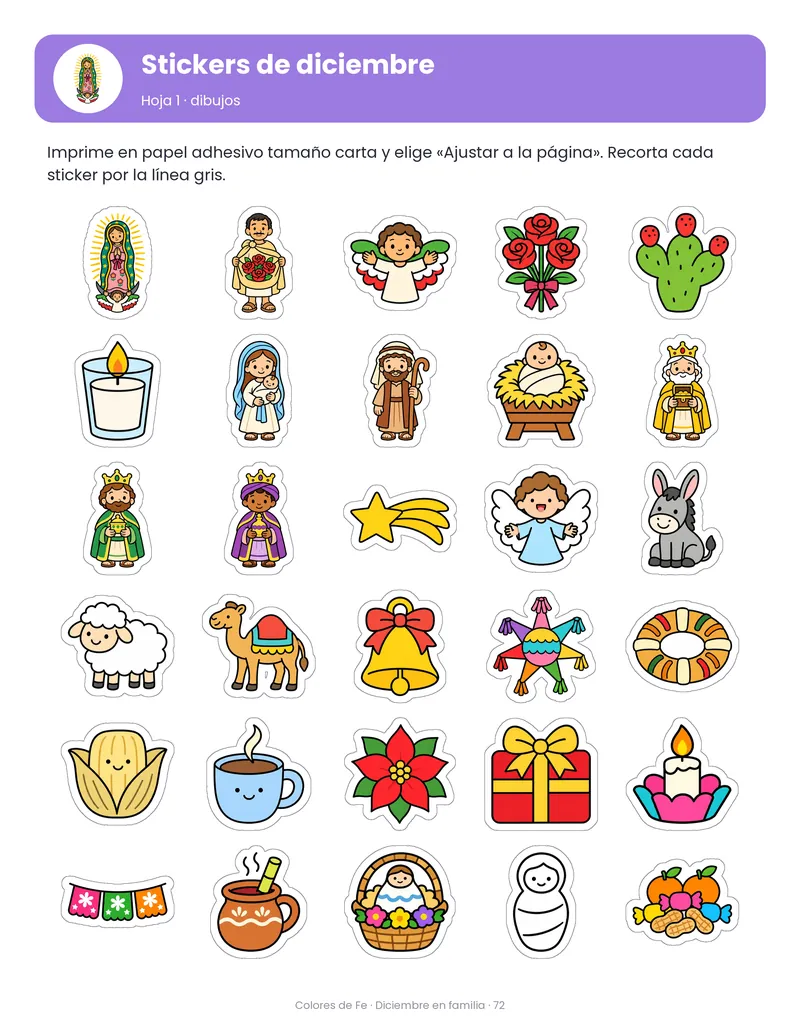
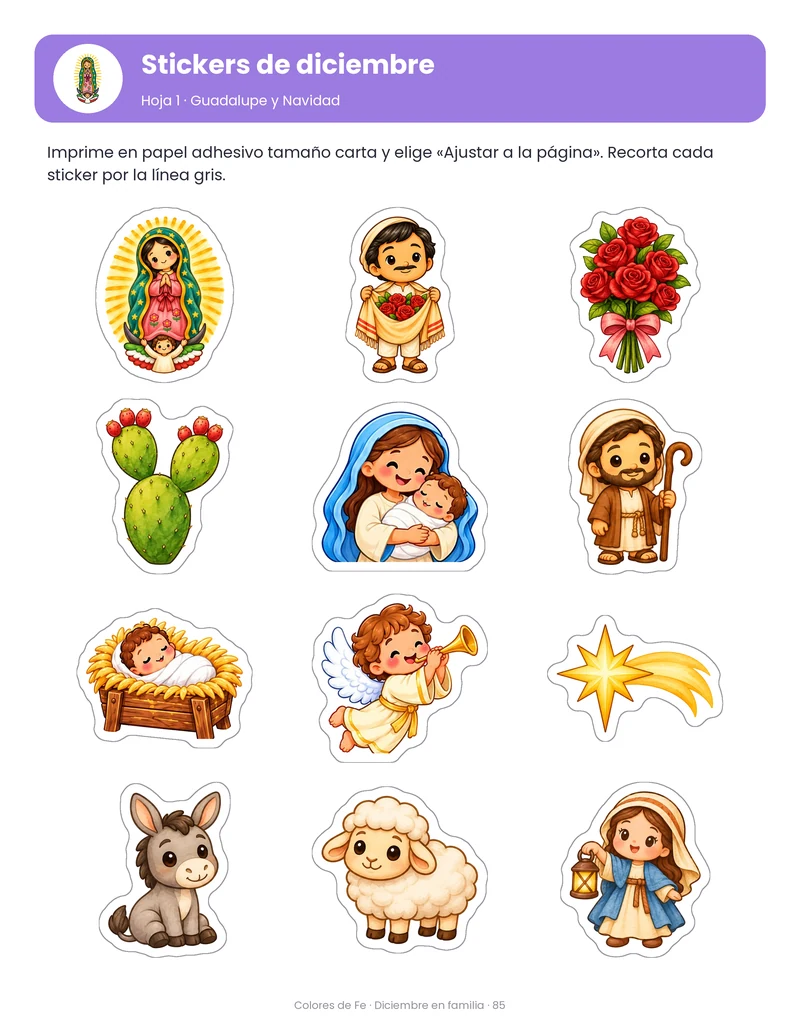
Landings MX: imprimir en cualquier papelería; Diciembre pasa a 89 páginas con 3 hojas de stickers

diff --git a/diciembre/index.html b/diciembre/index.html
@@ -103,6 +103,7 @@ fbq('track','ViewContent',{content_name:'Diciembre en familia',currency:'MXN',va
   .cdf-example-grid figcaption{text-align:center;font-size:13px;color:#6c798c;margin-top:8px;font-weight:700}
   .cdf-hero-cta{max-width:510px;margin:18px auto 0}
   .cdf-hero-cta .cdf-trust{margin-top:10px;font-size:13px}
+  .cdf-print{font-size:15px;font-weight:800;color:var(--navy);text-align:center;background:#fff8e1;border:1px solid var(--yellow);border-radius:12px;padding:8px 12px;margin:12px 0 0}
   #comprar{scroll-margin-top:16px}
   .cdf-real{max-width:520px;margin:30px auto 0;text-align:center}
   .cdf-real-title{margin:0 0 12px;font-weight:900;font-size:19px;color:var(--navy)}
@@ -227,6 +228,7 @@ fbq('track','ViewContent',{content_name:'Diciembre en familia',currency:'MXN',va
           <div class="cdf-hero-cta">
             <p class="cdf-price-hero">Todo el libro: <b>$147 MXN</b> · pago único</p>
             <a class="cdf-btn" href="https://pay.hotmart.com/M108386246R?checkoutMode=10">QUIERO DICIEMBRE EN FAMILIA →</a>
+            <p class="cdf-print">🖨 ¿No tienes impresora? Lo imprimes en cualquier papelería cerca de tu casa.</p>
             <div class="cdf-trust">🔒 Pago seguro con tarjeta u OXXO · 📩 Llega a tu correo · 🛡 Garantía de 7 días</div>
             <a class="cdf-hero-gift" href="#libro">🎁 Ver todo lo que trae el libro</a>
           </div>
@@ -356,7 +358,7 @@ fbq('track','ViewContent',{content_name:'Diciembre en familia',currency:'MXN',va
   <section class="cdf-section" id="libro">
     <div class="cdf-wrap">
       <h2 class="cdf-title">Todo lo que trae el libro 🎁</h2>
-      <p class="cdf-sub">Un solo PDF de 88 páginas, en tamaño carta, con el mismo estilo de dibujo de Colores de Fe.</p>
+      <p class="cdf-sub">Un solo PDF de 89 páginas, en tamaño carta, con el mismo estilo de dibujo de Colores de Fe.</p>
 
       <div class="cdf-bonus cdf-bonus-2">
         <div>
@@ -427,9 +429,10 @@ fbq('track','ViewContent',{content_name:'Diciembre en familia',currency:'MXN',va
         </div>
         <div>
           <div class="cdf-eyebrow">⭐ 5 · STICKERS</div>
-          <h2>2 hojas de stickers de diciembre</h2>
+          <h2>3 hojas de stickers de diciembre</h2>
           <ul class="cdf-list">
-            <li>La Virgen, Juan Diego, el Niño Dios, los Reyes, la piñata, la rosca y más.</li>
+            <li>24 stickers grandes, de unos 5 cm: la Virgen, Juan Diego, el Niño Dios, los Reyes, la piñata, la rosca y más.</li>
+            <li>6 frases para decorar: «¡Feliz Navidad!», «Jesús nació», «¡Gracias, Virgencita!» y más.</li>
             <li>Una velita para pegar en cada noche de posada.</li>
             <li>Se imprimen en papel adhesivo, o en papel común y se pegan con pegamento.</li>
           </ul>
@@ -444,18 +447,18 @@ fbq('track','ViewContent',{content_name:'Diciembre en familia',currency:'MXN',va
       <div class="cdf-offer">
         <div class="cdf-eyebrow">TODO EN UNA SOLA COMPRA</div>
         <h2>Diciembre en familia</h2>
-        <p>Lo recibes por correo apenas se confirma el pago, listo para imprimir.</p>
+        <p>Lo recibes por correo apenas se confirma el pago, listo para imprimir en casa o en cualquier papelería.</p>
         <ul class="cdf-checks" style="max-width:640px;margin:22px auto;text-align:left;">
           <li>El Adviento: corona, calendario, nacimiento y adornos</li>
           <li>20 láminas para pintar</li>
           <li>20 historias para leer en voz alta</li>
           <li>Las 9 posadas, una página por noche</li>
           <li>Lotería, memorama y más juegos</li>
-          <li>2 hojas de stickers de diciembre</li>
+          <li>3 hojas de stickers de diciembre</li>
           <li>Imprimes las veces que quieras</li>
         </ul>
         <div class="cdf-price">$147 MXN</div>
-        <div class="cdf-note">Pago único · 88 páginas en tamaño carta</div>
+        <div class="cdf-note">Pago único · 89 páginas en tamaño carta</div>
         <a class="cdf-btn" href="https://pay.hotmart.com/M108386246R?checkoutMode=10">QUIERO DICIEMBRE EN FAMILIA →</a>
         <div class="cdf-trust">🔒 Pago seguro · 📩 Descarga inmediata · PDF digital, no se envía producto físico.</div>
         <div class="cdf-trust" style="margin-top:6px">💳 Pagas con tarjeta de crédito o débito, o en efectivo en OXXO.</div>
@@ -503,12 +506,13 @@ fbq('track','ViewContent',{content_name:'Diciembre en familia',currency:'MXN',va
     <div class="cdf-wrap">
       <h2 class="cdf-title">Preguntas frecuentes</h2>
       <div class="cdf-faq">
-        <details><summary>¿Qué incluye el libro?</summary><p>Un PDF de 88 páginas: el Adviento (la corona, los 4 domingos, un calendario del 1 al 24, un nacimiento para armar y adornos para el árbol); 20 láminas para pintar, cada una con su historia para leer; una página para cada una de las 9 posadas; juegos (lotería navideña, memorama, cuenta y escribe, sopas de letras, laberintos, una cadena para esperar la Navidad y una piñata para decorar) y 3 hojas de stickers.</p></details>
+        <details><summary>¿Qué incluye el libro?</summary><p>Un PDF de 89 páginas: el Adviento (la corona, los 4 domingos, un calendario del 1 al 24, un nacimiento para armar y adornos para el árbol); 20 láminas para pintar, cada una con su historia para leer; una página para cada una de las 9 posadas; juegos (lotería navideña, memorama, cuenta y escribe, sopas de letras, laberintos, una cadena para esperar la Navidad y una piñata para decorar) y 3 hojas de stickers.</p></details>
         <details><summary>¿Es católico?</summary><p>Sí. Está hecho para familias católicas de México: la Virgen de Guadalupe y san Juan Diego, las posadas, el nacimiento, el arrullo del Niño Dios, la rosca de Reyes y la Candelaria. Los versículos están tomados del Leccionario de la Conferencia del Episcopado Mexicano, y las historias de la Virgen de Guadalupe son adaptaciones para niños del <em>Nican Mopohua</em>.</p></details>
-        <details><summary>¿Es un libro físico?</summary><p>No. Es un PDF digital: lo descargas y lo imprimes en casa o en la papelería, en hojas tamaño carta. No se envía ningún producto físico.</p></details>
+        <details><summary>¿Es un libro físico?</summary><p>No. Es un PDF digital: lo descargas y lo imprimes en casa o en cualquier papelería, en hojas tamaño carta. No se envía ningún producto físico.</p></details>
+        <details><summary>¿Y si no tengo impresora?</summary><p>No hace falta tener una. Le mandas el PDF por WhatsApp o por correo a cualquier papelería o centro de copiado cerca de tu casa y te lo imprimen en hojas tamaño carta, a color o en blanco y negro. Puedes imprimir solo las páginas que vayas a usar y volver por más cuando quieras.</p></details>
         <details><summary>¿Para qué edades está pensado?</summary><p>Para niños de kínder y de los primeros años de primaria (más o menos de 3 a 8 años). Los más chiquitos pintan y escuchan la historia; los más grandes la leen y resuelven los juegos.</p></details>
         <details><summary>¿Lo puedo usar en la catequesis?</summary><p>Sí. Puedes imprimir las páginas las veces que quieras para tu familia o para el grupo de niños que acompañes. Lo que no se permite es compartir el archivo ni revenderlo.</p></details>
-        <details><summary>¿Cómo son los stickers?</summary><p>Son 2 hojas para imprimir, con dibujos de diciembre y una velita para cada noche de posada. No vienen adhesivos: los imprimes en papel adhesivo, o en papel común y los pegas con pegamento.</p></details>
+        <details><summary>¿Cómo son los stickers?</summary><p>Son 3 hojas para imprimir: 24 dibujos de diciembre grandes, 6 frases y una velita para cada noche de posada. No vienen adhesivos: los imprimes en papel adhesivo, o en papel común y los pegas con pegamento.</p></details>
         <details><summary>¿Cómo puedo pagar?</summary><p>Con tarjeta de crédito o débito, o en efectivo en OXXO. Si pagas en OXXO, recibes una ficha de pago y el material te llega cuando se acredita (puede tardar hasta un día hábil).</p></details>
         <details><summary>¿Cuándo recibo el material?</summary><p>Apenas se confirma el pago, te llega un correo de Hotmart con el acceso para descargar. Con tarjeta es al instante; con OXXO, cuando se acredita el pago. Si no lo ves, revisa spam o promociones, o escríbenos a <a href="mailto:hola.coloresdefe@gmail.com">hola.coloresdefe@gmail.com</a>.</p></details>
         <details><summary>¿Tiene garantía?</summary><p>Sí, 7 días. Si el material no es lo que esperabas, pides el reembolso desde tu cuenta de Hotmart dentro de los 7 días de tu compra y te devuelven el dinero. Si tienes un problema con el archivo, escríbenos a <a href="mailto:hola.coloresdefe@gmail.com">hola.coloresdefe@gmail.com</a>.</p></details>
@@ -521,7 +525,7 @@ fbq('track','ViewContent',{content_name:'Diciembre en familia',currency:'MXN',va
     <p class="cdf-final-verse">“Un niño nos ha nacido, un hijo se nos ha dado.”<span>ISAÍAS 9, 5</span></p>
     <h2>20 láminas, 9 posadas y muchos juegos. Pero, sobre todo, un diciembre para vivir la fe en familia 💛</h2>
     <a class="cdf-btn" href="https://pay.hotmart.com/M108386246R?checkoutMode=10">QUIERO DICIEMBRE EN FAMILIA →</a>
-    <div class="cdf-disclaimer">Descarga inmediata · 88 páginas · Garantía de 7 días</div>
+    <div class="cdf-disclaimer">Descarga inmediata · 89 páginas · Garantía de 7 días</div>
     <p style="margin:18px auto 0;font-size:17px;color:#17365d;font-weight:700;">¡Feliz Navidad y que Dios bendiga tu hogar! 🙏</p>
   </section>
 
@@ -537,7 +541,7 @@ fbq('track','ViewContent',{content_name:'Diciembre en familia',currency:'MXN',va
   </footer>
 
   <!-- BOTÓN FIJO EN EL CELULAR -->
-  <div class="cdf-sticky"><span>Diciembre en familia · $147 MXN<small>88 páginas · descarga inmediata</small></span><a href="https://pay.hotmart.com/M108386246R?checkoutMode=10">COMPRAR</a></div>
+  <div class="cdf-sticky"><span>Diciembre en familia · $147 MXN<small>89 páginas · descarga inmediata</small></span><a href="https://pay.hotmart.com/M108386246R?checkoutMode=10">COMPRAR</a></div>
 </div>
 
 </body>

diff --git a/index.html b/index.html
@@ -103,6 +103,7 @@ fbq('track','ViewContent',{content_name:'Kit completo Colores de Fe',currency:'M
   .cdf-example-grid figcaption{text-align:center;font-size:13px;color:#6c798c;margin-top:8px;font-weight:700}
   .cdf-hero-cta{max-width:510px;margin:18px auto 0}
   .cdf-hero-cta .cdf-trust{margin-top:10px;font-size:13px}
+  .cdf-print{font-size:15px;font-weight:800;color:var(--navy);text-align:center;background:#fff8e1;border:1px solid var(--yellow);border-radius:12px;padding:8px 12px;margin:12px 0 0}
   #comprar{scroll-margin-top:16px}
   .cdf-real{max-width:520px;margin:30px auto 0;text-align:center}
   .cdf-real-title{margin:0 0 12px;font-weight:900;font-size:19px;color:var(--navy)}
@@ -216,6 +217,7 @@ fbq('track','ViewContent',{content_name:'Kit completo Colores de Fe',currency:'M
           <div class="cdf-hero-cta">
             <p class="cdf-price-hero">Todo el kit: <b>$197 MXN</b> · pago único</p>
             <a class="cdf-btn" href="https://pay.hotmart.com/K108383205J?checkoutMode=10">QUIERO EL KIT COMPLETO →</a>
+            <p class="cdf-print">🖨 ¿No tienes impresora? Lo imprimes en cualquier papelería cerca de tu casa.</p>
             <div class="cdf-trust">🔒 Pago seguro con tarjeta u OXXO · 📩 Llega a tu correo · 🛡 Garantía de 7 días</div>
             <a class="cdf-hero-gift" href="#kit">🎁 Ver todo lo que trae el kit</a>
           </div>
@@ -450,7 +452,7 @@ fbq('track','ViewContent',{content_name:'Kit completo Colores de Fe',currency:'M
       <div class="cdf-offer">
         <div class="cdf-eyebrow">TODO EN UNA SOLA COMPRA</div>
         <h2>Kit completo Colores de Fe</h2>
-        <p>Lo recibes por correo apenas se confirma el pago, listo para imprimir.</p>
+        <p>Lo recibes por correo apenas se confirma el pago, listo para imprimir en casa o en cualquier papelería.</p>
         <ul class="cdf-checks" style="max-width:640px;margin:22px auto;text-align:left;">
           <li>50 láminas para pintar (40 de la Biblia + 10 de valores)</li>
           <li>40 historias de la Biblia para leer</li>
@@ -513,7 +515,8 @@ fbq('track','ViewContent',{content_name:'Kit completo Colores de Fe',currency:'M
       <div class="cdf-faq">
         <details><summary>¿Son 50 historias distintas?</summary><p>Son 50 láminas para pintar: 40 de historias de la Biblia y 10 de valores para la vida diaria. Además, el libro «Historias de la Biblia» trae esas mismas 40 historias contadas para leer, una por cada lámina. Así, cada historia se lee, se pinta y se platica.</p></details>
         <details><summary>¿Qué incluye el kit?</summary><p>Cinco PDF: 50 láminas para pintar, el libro «Historias de la Biblia» con 40 historias, el cuaderno «Juegos y pasatiempos» con más de 100 actividades, 162 stickers para imprimir y la guía de conversación con 50 temas.</p></details>
-        <details><summary>¿Es un libro físico?</summary><p>No. Es un PDF digital: lo recibes por correo y lo imprimes en casa, en hojas tamaño carta. No se envía ningún producto físico.</p></details>
+        <details><summary>¿Es un libro físico?</summary><p>No. Es un PDF digital: lo recibes por correo y lo imprimes en casa o en cualquier papelería, en hojas tamaño carta. No se envía ningún producto físico.</p></details>
+        <details><summary>¿Y si no tengo impresora?</summary><p>No hace falta tener una. Le mandas el PDF por WhatsApp o por correo a cualquier papelería o centro de copiado cerca de tu casa y te lo imprimen en hojas tamaño carta, a color o en blanco y negro. Puedes imprimir solo las páginas que vayas a usar y volver por más cuando quieras.</p></details>
         <details><summary>¿Para qué edades está pensado?</summary><p>Está pensado para niños de kínder y de los primeros años de primaria (más o menos de 3 a 8 años). Los más grandes pueden hacerlo a su ritmo, y con los más chiquitos es un lindo momento para compartir.</p></details>
         <details><summary>¿Hace falta saber de la Biblia para usarlo?</summary><p>No. Las historias están contadas con palabras simples y la guía te da las preguntas y una oración para cada tema. Solo tienes que sentarte a su lado.</p></details>
         <details><summary>¿Puedo volver a imprimir?</summary><p>Sí. Una vez descargado el archivo, puedes volver a imprimir las páginas cuando las necesites, para tu familia o para el grupo de niños que acompañes. Lo que no se permite es compartir el archivo ni revenderlo.</p></details>
